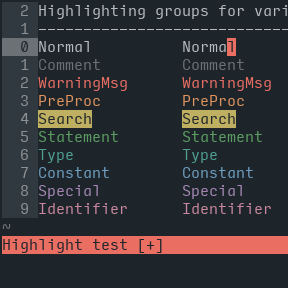
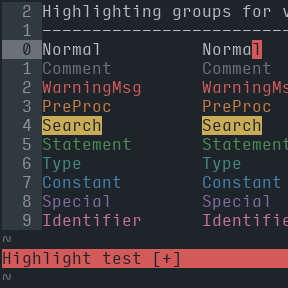
overhaul

Changed region(s): [[0.0, 0.0, 1.0, 0.7812], [0.0, 0.7812, 1.0, 0.9688]]

diff --git a/README.md b/README.md
@@ -76,14 +76,8 @@ let g:forgotten_light_LineNr = 'off'
 
 <blockquote>
   <ul>
-    <li>accent colour hues were selected at the scale of 1/12 (30°) colour wheel intervals, followed by 1/6 subinterval adjustments</li>
-    <li>base colour hue was selected from among:
-      <ul>
-        <li>the 24 hues available at the scale of 1/24 (15°) colour wheel intervals</li>
-        <li>the additional fine-tuned accent hues</li>
-      </ul>
-    </li>
-    <li>discrete intervals were also used for tuning colour saturations (1/24) and values (1/12)</li>
+    <li><strong>hues</strong> were selected at the scale of 1/48 (7.5°) colour wheel intervals</li>
+    <li><strong>saturations</strong> and <strong>values</strong> were adjusted at the scale of 1/12 and 1/24, respectively</li>
     <li>the <a href="https://www.w3.org/TR/UNDERSTANDING-WCAG20/visual-audio-contrast-contrast.html#visual-audio-contrast-contrast-73-head">ISO 3:1 contrast standard</a> is met by nearly all text/background combinations, exceptions being made for some transient-highlighted backgrounds (e.g. cursorcolumn, cursorline)</li>
   </ul>
 </blockquote>
@@ -98,68 +92,68 @@ let g:forgotten_light_LineNr = 'off'
   </thead>
   <tbody>
     <tr>
-      <td style="text-align: right"><img src="http://www.colorhexa.com/1d252b.png" height="24" width="42" /> <code class="highlighter-rouge">1d252b</code> </td>
-      <td style="text-align: center"><img src="http://www.colorhexa.com/eb493a.png" height="24" width="42" /> <code class="highlighter-rouge">eb493a</code> </td>
-      <td style="text-align: left"><img src="http://www.colorhexa.com/eb6e63.png" height="24" width="42" /> <code class="highlighter-rouge">eb6e63</code></td>
+      <td style="text-align: right"><img src="http://www.colorhexa.com/1d262b.png" height="24" width="42" /> <code class="highlighter-rouge">1d262b</code> </td>
+      <td style="text-align: center"><img src="http://www.colorhexa.com/e04a4a.png" height="24" width="42" /> <code class="highlighter-rouge">e04a4a</code> </td>
+      <td style="text-align: left"><img src="http://www.colorhexa.com/bf6060.png" height="24" width="42" /> <code class="highlighter-rouge">bf6060</code></td>
     </tr>
     <tr>
-      <td style="text-align: right"><img src="http://www.colorhexa.com/303940.png" height="24" width="42" /> <code class="highlighter-rouge">303940</code> </td>
-      <td style="text-align: center"><img src="http://www.colorhexa.com/e07426.png" height="24" width="42" /> <code class="highlighter-rouge">e07426</code> </td>
-      <td style="text-align: left"><img src="http://www.colorhexa.com/e0945e.png" height="24" width="42" /> <code class="highlighter-rouge">e0945e</code></td>
+      <td style="text-align: right"><img src="http://www.colorhexa.com/303a40.png" height="24" width="42" /> <code class="highlighter-rouge">303a40</code> </td>
+      <td style="text-align: center"><img src="http://www.colorhexa.com/e07538.png" height="24" width="42" /> <code class="highlighter-rouge">e07538</code> </td>
+      <td style="text-align: left"><img src="http://www.colorhexa.com/b5734c.png" height="24" width="42" /> <code class="highlighter-rouge">b5734c</code></td>
     </tr>
     <tr>
-      <td style="text-align: right"><img src="http://www.colorhexa.com/3f4b54.png" height="24" width="42" /> <code class="highlighter-rouge">3f4b54</code> </td>
-      <td style="text-align: center"><img src="http://www.colorhexa.com/d4b935.png" height="24" width="42" /> <code class="highlighter-rouge">d4b935</code> </td>
-      <td style="text-align: left"><img src="http://www.colorhexa.com/bfaf60.png" height="24" width="42" /> <code class="highlighter-rouge">bfaf60</code></td>
+      <td style="text-align: right"><img src="http://www.colorhexa.com/3f4c54.png" height="24" width="42" /> <code class="highlighter-rouge">3f4c54</code> </td>
+      <td style="text-align: center"><img src="http://www.colorhexa.com/d4ac35.png" height="24" width="42" /> <code class="highlighter-rouge">d4ac35</code> </td>
+      <td style="text-align: left"><img src="http://www.colorhexa.com/ab9248.png" height="24" width="42" /> <code class="highlighter-rouge">ab9248</code></td>
     </tr>
     <tr>
-      <td style="text-align: right"><img src="http://www.colorhexa.com/6c7175.png" height="24" width="42" /> <code class="highlighter-rouge">6c7175</code> </td>
-      <td style="text-align: center"><img src="http://www.colorhexa.com/349e3d.png" height="24" width="42" /> <code class="highlighter-rouge">349e3d</code> </td>
-      <td style="text-align: left"><img src="http://www.colorhexa.com/5c9e61.png" height="24" width="42" /> <code class="highlighter-rouge">5c9e61</code></td>
+      <td style="text-align: right"><img src="http://www.colorhexa.com/6c7275.png" height="24" width="42" /> <code class="highlighter-rouge">6c7275</code> </td>
+      <td style="text-align: center"><img src="http://www.colorhexa.com/349e42.png" height="24" width="42" /> <code class="highlighter-rouge">349e42</code> </td>
+      <td style="text-align: left"><img src="http://www.colorhexa.com/508a58.png" height="24" width="42" /> <code class="highlighter-rouge">508a58</code></td>
     </tr>
     <tr>
-      <td style="text-align: right"><img src="http://www.colorhexa.com/8e9194.png" height="24" width="42" /> <code class="highlighter-rouge">8e9194</code> </td>
-      <td style="text-align: center"><img src="http://www.colorhexa.com/289e8b.png" height="24" width="42" /> <code class="highlighter-rouge">289e8b</code> </td>
-      <td style="text-align: left"><img src="http://www.colorhexa.com/4f9e91.png" height="24" width="42" /> <code class="highlighter-rouge">4f9e91</code></td>
+      <td style="text-align: right"><img src="http://www.colorhexa.com/8e9294.png" height="24" width="42" /> <code class="highlighter-rouge">8e9294</code> </td>
+      <td style="text-align: center"><img src="http://www.colorhexa.com/289e8e.png" height="24" width="42" /> <code class="highlighter-rouge">289e8e</code> </td>
+      <td style="text-align: left"><img src="http://www.colorhexa.com/458a81.png" height="24" width="42" /> <code class="highlighter-rouge">458a81</code></td>
     </tr>
     <tr>
       <td style="text-align: right"><img src="http://www.colorhexa.com/b8bcbf.png" height="24" width="42" /> <code class="highlighter-rouge">b8bcbf</code> </td>
-      <td style="text-align: center"><img src="http://www.colorhexa.com/3f8abf.png" height="24" width="42" /> <code class="highlighter-rouge">3f8abf</code> </td>
-      <td style="text-align: left"><img src="http://www.colorhexa.com/6f9ebf.png" height="24" width="42" /> <code class="highlighter-rouge">6f9ebf</code></td>
+      <td style="text-align: center"><img src="http://www.colorhexa.com/3f90bf.png" height="24" width="42" /> <code class="highlighter-rouge">3f90bf</code> </td>
+      <td style="text-align: left"><img src="http://www.colorhexa.com/5c869e.png" height="24" width="42" /> <code class="highlighter-rouge">5c869e</code></td>
     </tr>
     <tr>
       <td style="text-align: right"><img src="http://www.colorhexa.com/d7dde0.png" height="24" width="42" /> <code class="highlighter-rouge">d7dde0</code> </td>
-      <td style="text-align: center"><img src="http://www.colorhexa.com/9c69b5.png" height="24" width="42" /> <code class="highlighter-rouge">9c69b5</code> </td>
-      <td style="text-align: left"><img src="http://www.colorhexa.com/a688b5.png" height="24" width="42" /> <code class="highlighter-rouge">a688b5</code></td>
+      <td style="text-align: center"><img src="http://www.colorhexa.com/9969b5.png" height="24" width="42" /> <code class="highlighter-rouge">9969b5</code> </td>
+      <td style="text-align: left"><img src="http://www.colorhexa.com/876f94.png" height="24" width="42" /> <code class="highlighter-rouge">876f94</code></td>
     </tr>
     <tr>
       <td style="text-align: right"><img src="http://www.colorhexa.com/f5fbff.png" height="24" width="42" /> <code class="highlighter-rouge">f5fbff</code> </td>
-      <td style="text-align: center"><img src="http://www.colorhexa.com/c96587.png" height="24" width="42" /> <code class="highlighter-rouge">c96587</code> </td>
-      <td style="text-align: left"><img src="http://www.colorhexa.com/c9879d.png" height="24" width="42" /> <code class="highlighter-rouge">c9879d</code></td>
+      <td style="text-align: center"><img src="http://www.colorhexa.com/d46a85.png" height="24" width="42" /> <code class="highlighter-rouge">d46a85</code> </td>
+      <td style="text-align: left"><img src="http://www.colorhexa.com/b5697c.png" height="24" width="42" /> <code class="highlighter-rouge">b5697c</code></td>
     </tr>
   </tbody>
 </table>
 
-<p><img src="http://www.colorhexa.com/eb493a.png" height="24" width="42" />
+<p><img src="http://www.colorhexa.com/e04a4a.png" height="24" width="42" />
 <strong>Red</strong>, the colour of alarm, is used for <strong>warning elements</strong>, including error messages, misspellings, and diff deletions.</p>
 
-<p><img src="http://www.colorhexa.com/e07426.png" height="24" width="42" />
+<p><img src="http://www.colorhexa.com/e07538.png" height="24" width="42" />
 <strong>Orange</strong>, the colour of fire, can be associated with the preliminary “warmup” phase of some activity; literally, this could be the heating-up of a hearth for forging, or a stove for cooking. Orange is therefore used for <strong>preliminary elements</strong>, such as preprocessor commands (which prepare data to be handled by another program), incremental searching (that is, a search term in the process of being typed), titles, and miscapitalized words.</p>
 
-<p><img src="http://www.colorhexa.com/d4b935.png" height="24" width="42" />
+<p><img src="http://www.colorhexa.com/d4ac35.png" height="24" width="42" />
 <strong>Yellow</strong>, the classic highlighting colour, is applied to elements that are not warnings, yet should draw attention with high visibility. These <strong>highlighted elements</strong> include search results, task tags (<code class="highlighter-rouge">TODO</code>, <code class="highlighter-rouge">FIXME</code>…), and diff changes.</p>
 
-<p><img src="http://www.colorhexa.com/349e3d.png" height="24" width="42" />
+<p><img src="http://www.colorhexa.com/349e42.png" height="24" width="42" />
 <strong>Green</strong>, the colour that says “go ahead, proceed with the task at hand”, is used for <strong>action elements</strong>, such as statements (if/then, while/do, case…), mode indicators (insert, visual…), vim user prompts, and diff additions.</p>
 
-<p><img src="http://www.colorhexa.com/289e8b.png" height="24" width="42" />
+<p><img src="http://www.colorhexa.com/289e8e.png" height="24" width="42" />
 <strong>Teal</strong> is named after the “common teal”, a kind of duck, thus connecting this colour with the concept of “species”, which is a means of classifying life into very specific types. Teal is therefore used for specifying <strong>object types</strong>, such as data type (boolean, integer, string…) or storage class (static, volatile…), as well as marking mislocalized words (that is, words that are not misspelled but of the wrong type, namely a foreign locale type).</p>
 
-<p><img src="http://www.colorhexa.com/3f8abf.png" height="24" width="42" />
+<p><img src="http://www.colorhexa.com/3f90bf.png" height="24" width="42" />
 <strong>Blue</strong>, a colour of calm stability, is used for <strong>constants</strong>, which come in the form of boolean values, integers, floating-point numbers, characters, and strings.</p>
 
-<p><img src="http://www.colorhexa.com/9c69b5.png" height="24" width="42" />
+<p><img src="http://www.colorhexa.com/9969b5.png" height="24" width="42" />
 <strong>Purple</strong>, often associated with (historically) rare purple dyes produced for special works of art, is used for <strong>special text</strong>, including special characters (standalone or within syntax units), vim tags, and debugging statements. Rarely-used words are also marked, allowing the writer to consider whether such a specially uncommon word is appropriate.</p>
 
-<p><img src="http://www.colorhexa.com/c96587.png" height="24" width="42" />
+<p><img src="http://www.colorhexa.com/d46a85.png" height="24" width="42" />
 <strong>Pink</strong>, the colour of spring blossoms, is used for <strong>object names</strong>, including the names of variables and functions. To code is to bring countless objects blossoming into life as one types their names.</p>
